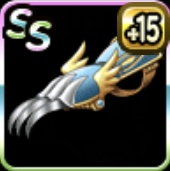
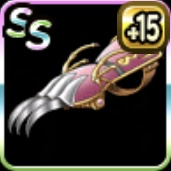
feat: 系統爪光の洗礼実装

Changed region(s): [[0.0, 0.0, 1.0, 1.0], [0.0, 0.4678, 0.0294, 0.5263]]

diff --git a/script.js b/script.js
@@ -872,7 +872,7 @@ async function startTurn() {
         await applyBuffsAsync(monster, initialBuffs, true, true);
 
         // 戦闘開始時装備特性
-        if (monster.gear?.initialAbilities) {
+        if (monster.gear && gearAbilities[monster.gear.id]) {
           await gearAbilities[monster.gear.id].initialAbilities(monster);
         }
         // 戦闘開始時発動特性
@@ -4586,7 +4586,7 @@ const monsters = [
     race: "ドラゴン",
     status: { HP: 886, MP: 398, atk: 474, def: 521, spd: 500, int: 259 },
     initialSkill: ["天空竜の息吹", "エンドブレス", "テンペストブレス", "煉獄火炎"],
-    defaultGear: "familyNail",
+    defaultGear: "familyNailRadiantWave",
     attribute: {
       initialBuffs: {
         breathEnhancement: { keepOnDeath: true },
@@ -9115,6 +9115,12 @@ const gear = [
     initialBuffs: { isUnbreakable: { keepOnDeath: true, left: 3, isToukon: true, name: "とうこん" } },
   },
   {
+    name: "系統爪光の洗礼",
+    id: "familyNailRadiantWave",
+    status: { HP: 0, MP: 0, atk: 0, def: 15, spd: 50, int: 0 },
+    initialBuffs: { isUnbreakable: { keepOnDeath: true, left: 3, isToukon: true, name: "とうこん" } },
+  },
+  {
     name: "系統爪超魔王錬金",
     id: "familyNailTyoma",
     status: { HP: 0, MP: 0, atk: 0, def: 15, spd: 50, int: 0 },
@@ -9155,7 +9161,6 @@ const gear = [
     name: "はどうのツメ",
     id: "waveNail",
     status: { HP: 0, MP: 0, atk: 0, def: 0, spd: 34, int: 0 },
-    initialAbilities: true,
     alchemy: true,
   },
   {
@@ -9271,6 +9276,21 @@ const gearAbilities = {
   waveNail: {
     initialAbilities: function (skillUser) {
       skillUser.skill[3] = "プチ神のはどう";
+    },
+  },
+  familyNailRadiantWave: {
+    // 直接挿入で良いのか 存在しない場合生成
+    initialAbilities: function (skillUser) {
+      if (!skillUser.abilities.supportAbilities.evenTurnAbilities) {
+        skillUser.abilities.supportAbilities.evenTurnAbilities = [];
+      }
+      skillUser.abilities.supportAbilities.evenTurnAbilities.push({
+        name: "光の洗礼",
+        disableMessage: true,
+        act: function (skillUser) {
+          executeRadiantWave(skillUser);
+        },
+      });
     },
   },
 };

diff --git a/index.html b/index.html
@@ -137,10 +137,11 @@
               <img class="gearList" src="images/gear/cursedNail.jpeg" />
               <img class="gearList" src="images/gear/waveNail.jpeg" />
               <img class="gearList" src="images/gear/hunkiNail.jpeg" />
-              <div>系統爪 (左から順に パニバリ, 暗夜の帳, 通常ザキ, 超魔王30%)</div>
+              <div>系統爪 (左から順に パニバリ, 暗夜の帳, 通常ザキ, 偶数洗礼, 超魔王30%)</div>
               <img class="gearList" src="images/gear/familyNail.jpeg" />
               <img class="gearList" src="images/gear/familyNailBeast.jpeg" />
               <img class="gearList" src="images/gear/familyNailZaki.jpeg" />
+              <img class="gearList" src="images/gear/familyNailRadiantWave.jpeg" />
               <img class="gearList" src="images/gear/familyNailTyoma.jpeg" />
               <div>ヤリ</div>
               <img class="gearList" src="images/gear/kudaki.jpeg" />
